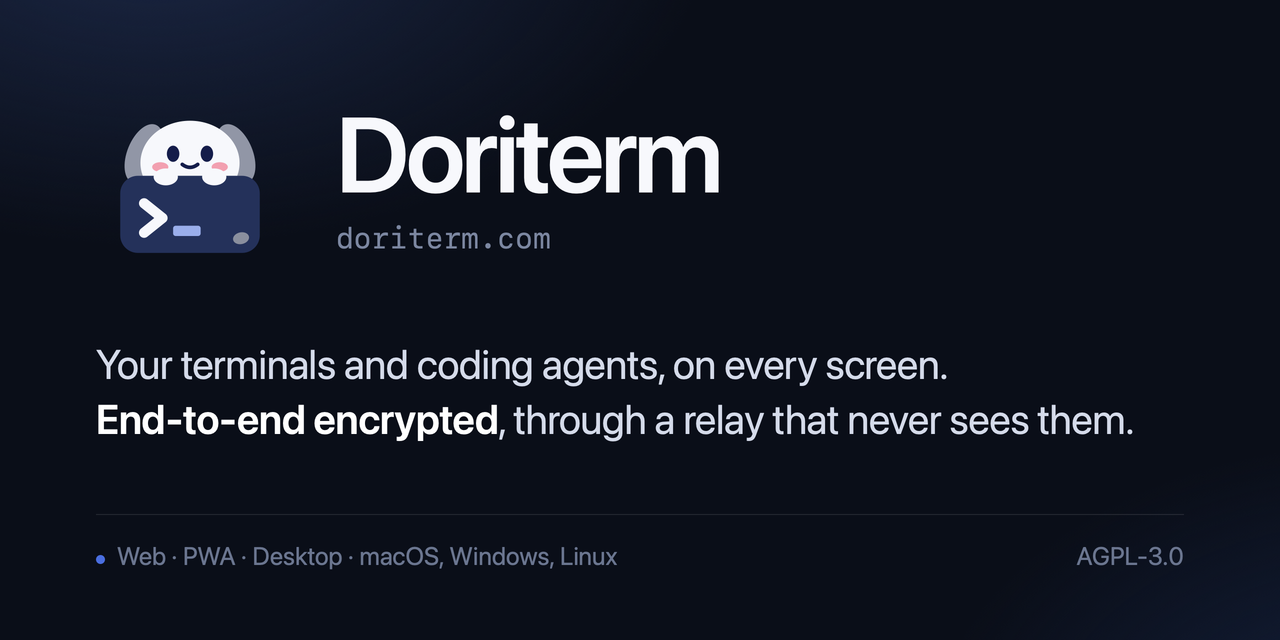
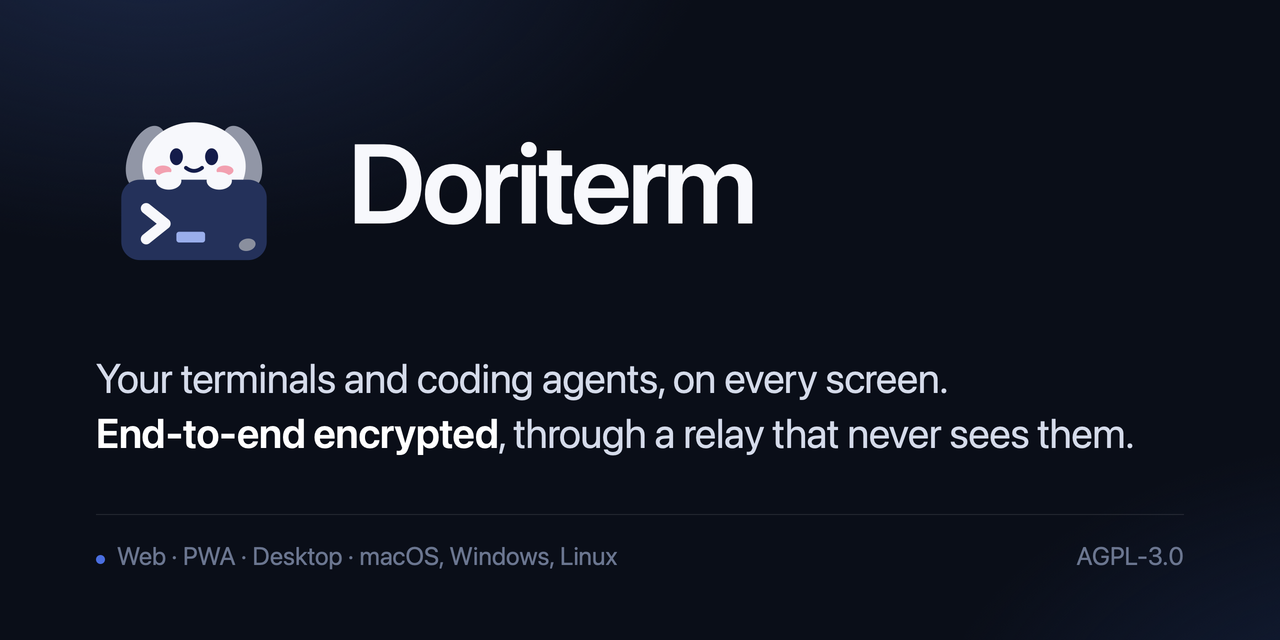
docs: the three low findings from the fleet review, folded before the push
- The social card no longer prints doriterm.com, which has no DNS record yet: the
  card is the name, the pitch, the platforms and the licence, so it cannot advertise
  an address that does not answer.
- The installed PWA opens in its own window, not full screen (apps/web/vite.config.ts
  sets display: "standalone").
- The issue form's security line now names a channel (a maintainer, privately)
  instead of pointing at a model with nowhere to report.
- Section 12's relay-trust row said "one online psk guess per code"; transport.md is
  precise about it being one guess per answer the host sends, at most ten per code.

Changed region(s): [[0.0625, 0.5312, 0.9062, 0.7188], [0.25, 0.1875, 0.5938, 0.4062], [0.0938, 0.1875, 0.2188, 0.4062]]

diff --git a/docs/architecture.md b/docs/architecture.md
@@ -237,7 +237,7 @@ Rules (INFERRED, following t3code's shipped pattern `T3:apps/web/src/terminal/gh
 | hc socket            | anyone who can open the core's socket has the account's shell; no TCP, no password                                                                                                                                                                                                                       | `CORE:docs/security.md:20-24` (SOURCE)                                                                  |
 | `/v1/hc`             | loopback only unless `--unsafe-listen`; token in `Sec-WebSocket-Protocol` compared in constant time                                                                                                                                                                                                      | `REPO:apps/host/src/cli.ts:9-14`, `auth.ts:22-36`, `listen.ts:16` (SOURCE)                              |
 | `/v1/e2ee` and relay | every byte past loopback is Noise-authenticated; the LAN listener serves `/v1/e2ee` and never plaintext `/v1/hc`                                                                                                                                                                                         | `CONTRACT:49`; `CRYPTO:apps/host/src/e2ee.test.ts:211-214` (SOURCE)                                     |
-| Relay trust          | reads/modifies/replays/drops at will but cannot read or forge hc bytes, impersonate either side, or splice sessions; known exposure: IKpsk2 msg1 (device name) and one online psk guess per code                                                                                                         | spec section 2 (`CONTRACT:22`, SOURCE)                                                                  |
+| Relay trust          | reads/modifies/replays/drops at will but cannot read or forge hc bytes, impersonate either side, or splice sessions; known exposure: IKpsk2 msg1 (device name) and one online psk guess per answer the host sends, at most ten per code                                                                  | spec section 2 (`CONTRACT:22`, SOURCE)                                                                  |
 | Keys at rest         | host keys at `$XDG_STATE_HOME/doriface-host/host-keys.json` mode 0600 with the device store beside them (`CRYPTO:apps/host/src/state/`, SOURCE for the module); web device key non-extractable where WebCrypto allows, which stops key export but not same-origin use of the key (`CONTRACT` Identities) |                                                                                                         |
 | Strict curves        | X25519 keys checked (length, top bit, `u < p`, small order, zero shared secret); Ed25519 verification strict                                                                                                                                                                                             | spec 3.1 REFINEMENT (INFERRED; the vendored corpus it names is **UNPROVEN**, research note `verify` F2) |
 | Renderer             | sandboxed, isolated, two-method bridge, CSP without network egress beyond ws/wss and loopback http                                                                                                                                                                                                       | section 11                                                                                              |

diff --git a/README.md b/README.md
@@ -96,7 +96,7 @@ The desktop app starts a host on the computer it runs on, so that computer's ter
 
 The web client is the same app and needs no install. It moves to [app.doriterm.com](https://app.doriterm.com) when that domain
 lands; until then it is live at [doriface.omo.dev](https://doriface.omo.dev). Use your browser's "install" or "add to home
-screen" if you want it in a window of its own; an installed PWA opens full screen and precaches its shell, so a dropped
+screen" if you want it in a window of its own; an installed PWA opens in its own window and precaches its shell, so a dropped
 network does not empty the window. A release build reaches your machines through the relay only — a development build
 (`bun run --cwd apps/web dev`) also offers "Loopback dev" in Settings > Connections, with the token from
 `doriface-host --print-token`.
@@ -205,7 +205,7 @@ bun run --cwd apps/host start --print-token   # the host gateway on 127.0.0.1:77
 bun run --cwd apps/web dev                    # the web client
 bun run --cwd apps/desktop start              # the desktop app
 bun run --cwd packages/ui showcase            # every component and screen mockup
-bun run capture:readme                        # the README's app screenshots, 1280x720 CSS at 3x (3840x2160)
+bun run capture:readme                        # the README's app screenshots, 1280x900 CSS at 3x (3840x2700)
 ```
 
 `bun run --cwd apps/web test:e2e` and `bun run --cwd apps/desktop test:e2e` run the Playwright suites against a real `hc`.
